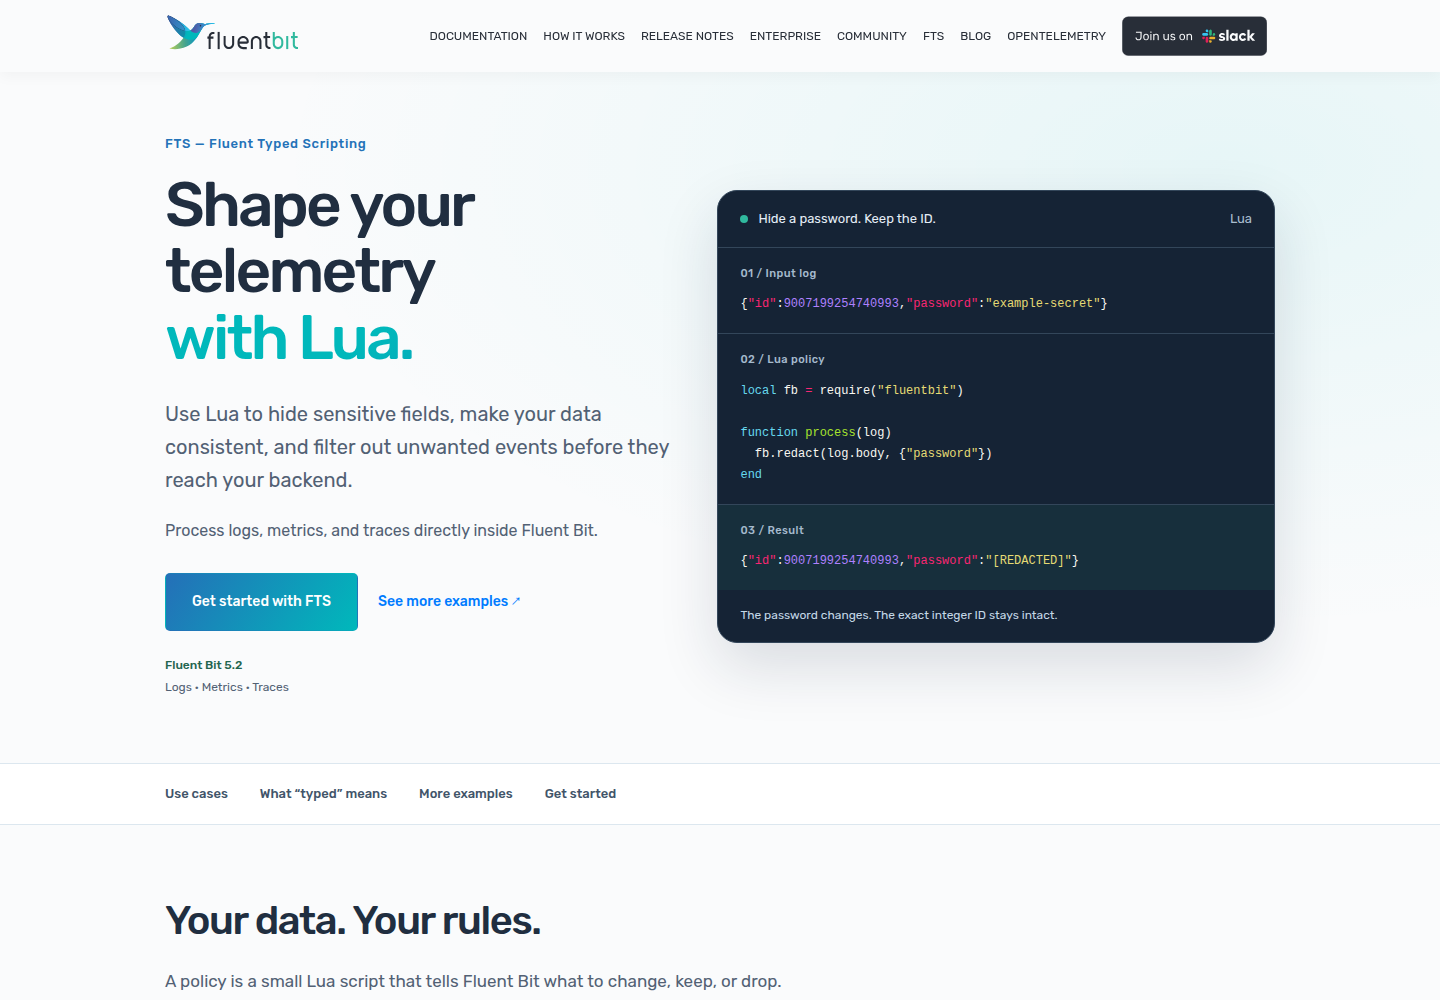
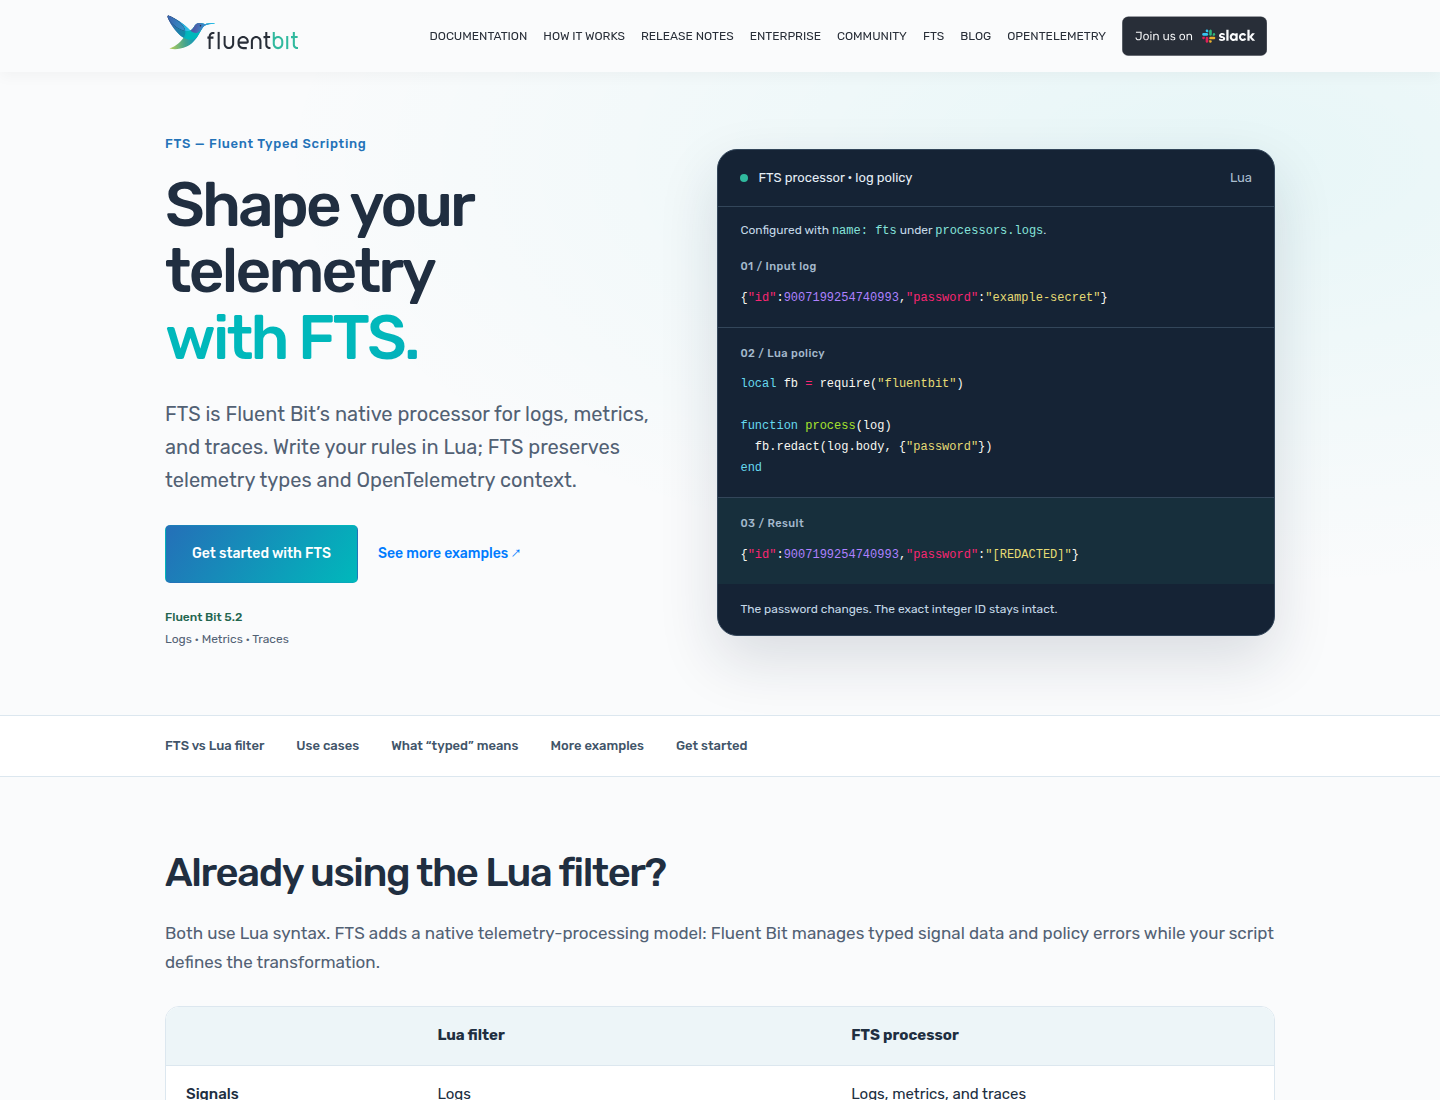
feat: promote 5.2 benchmarks and draft release notes

diff --git a/assets/scss/benchmarks.scss b/assets/scss/benchmarks.scss
@@ -67,3 +67,38 @@
   .benchmark-page details { padding: 16px; }
   .benchmark-page .benchmark-lead { font-size: 18px; }
 }
+
+.hero-benchmark-link { margin: 18px 0 24px; }
+.hero-benchmark-link a { color: #1c5689; font-size: 15px; font-weight: 500; text-underline-offset: 4px; }
+.home-benchmarks { order: 1; padding: 24px 0; }
+.home-benchmarks-card { padding: 40px; border-radius: 28px; background: #f3f8fb; border: 1px solid #dce7ef; }
+.home-benchmarks-heading { display: flex; align-items: center; justify-content: space-between; gap: 28px; margin-bottom: 28px; }
+.home-benchmarks-heading > div { min-width: 0; }
+.home-benchmarks-heading .btn { flex-shrink: 0; }
+.home-benchmarks-card h2 { font-size: 34px; line-height: 1.2; letter-spacing: -.025em; }
+.home-benchmarks-card p { font-size: 17px; line-height: 1.7; }
+.home-benchmarks-card .benchmark-eyebrow { color: #2372b8; font-size: 13px; font-weight: 500; }
+.home-benchmarks-results { display: grid; grid-template-columns: repeat(3, minmax(0, 1fr)); gap: 16px; }
+.home-benchmarks-result { display: flex; flex-direction: column; gap: 18px; padding: 28px; border-radius: 20px; background: linear-gradient(145deg, #1c5689, #123b65); color: #fff; text-decoration: none; transition: transform .2s ease; }
+.home-benchmarks-result:hover, .home-benchmarks-result:focus-visible { color: #fff; transform: translateY(-4px); text-decoration: none; outline: 3px solid #43c1df; outline-offset: 3px; }
+.home-benchmarks-result > span { font-size: 15px; line-height: 1.6; }
+.home-benchmarks-result .home-benchmarks-label { font-size: 12px; font-weight: 500; min-height: 38px; color: #d0ecff; }
+.home-benchmarks-result strong { font-size: clamp(40px, 4.7vw, 66px); line-height: 1.1; letter-spacing: -.04em; color: #fff; white-space: nowrap; }
+.home-benchmarks-result strong span { font-size: .7em; }
+.home-benchmarks-result .home-benchmarks-detail { margin-top: auto; font-size: 12px; color: #d0ecff; }
+.home-benchmarks-card .home-benchmarks-note { margin: 20px 0 0; color: #526174; font-size: 12px; }
+@media (max-width: 991px) {
+  .home-benchmarks-heading { align-items: flex-start; flex-direction: column; }
+  .home-benchmarks-result { padding: 22px; }
+}
+@media (max-width: 767px) {
+  .home-benchmarks-card { padding: 28px 24px; }
+  .home-benchmarks-card h2 { font-size: 28px; }
+  .home-benchmarks-results { grid-template-columns: minmax(0, 1fr); }
+  .home-benchmarks-result strong { font-size: 58px; }
+  .home-benchmarks-result .home-benchmarks-label { min-height: 0; }
+  .home-benchmarks-card .btn { padding: 18px 24px; white-space: normal; }
+}
+@media (prefers-reduced-motion: reduce) {
+  .home-benchmarks-result { transition: none; }
+}

diff --git a/layouts/partials/benchmarks/home.html b/layouts/partials/benchmarks/home.html
@@ -1,0 +1,36 @@
+{{ $summary := partial "benchmarks/summary.html" . }}
+<section class="home-benchmarks" aria-labelledby="home-benchmarks-title">
+  <div class="container">
+    <div class="home-benchmarks-card">
+      <div class="home-benchmarks-heading">
+        <div>
+          <p class="benchmark-eyebrow">Fluent Bit v5.2 / performance benchmarks</p>
+          <h2 id="home-benchmarks-title">More telemetry. Less overhead.</h2>
+          <p>Explore throughput, CPU, memory, and buffering measurements.</p>
+        </div>
+        <a class="btn btn-gradient" href="/benchmarks/5.2/">Explore 5.2 benchmarks</a>
+      </div>
+      <div class="home-benchmarks-results" aria-label="Measured benchmark highlights">
+        <a class="home-benchmarks-result" href="/benchmarks/5.2/#otlp">
+          <span class="home-benchmarks-label">Throughput vs. Fluent Bit 5.1</span>
+          <strong>{{ printf "%.1f" $summary.ratio }}<span>×</span></strong>
+          <span>JSON transformation throughput with memory buffering.</span>
+          <span class="home-benchmarks-detail">See OTLP results ↗</span>
+        </a>
+        <a class="home-benchmarks-result" href="/benchmarks/5.2/#otlp">
+          <span class="home-benchmarks-label">Throughput vs. OpenTelemetry Collector</span>
+          <strong>{{ printf "%.1f" $summary.collector_ratio }}<span>×</span></strong>
+          <span>The same JSON workload, compared with Collector 0.163.</span>
+          <span class="home-benchmarks-detail">See OTLP results ↗</span>
+        </a>
+        <a class="home-benchmarks-result" href="/benchmarks/5.2/#fts">
+          <span class="home-benchmarks-label">CPU savings with FTS</span>
+          <strong>{{ printf "%.0f" $summary.fts_low }}–{{ printf "%.0f" $summary.fts_high }}<span>%</span></strong>
+          <span>Less CPU than equivalent Lua log policies on Fluent Bit 5.1.0.</span>
+          <span class="home-benchmarks-detail">See FTS results ↗</span>
+        </a>
+      </div>
+      <p class="home-benchmarks-note">Measured workloads under the conditions in each comparison. Explore CPU and memory tradeoffs in the full report.</p>
+    </div>
+  </div>
+</section>

diff --git a/assets/scss/fts.scss b/assets/scss/fts.scss
@@ -157,3 +157,21 @@
   ul { margin-top: 20px; padding-left: 24px; }
   li { margin-bottom: 12px; }
 }
+
+.fts-demo p.fts-demo-context { margin: 0; padding: 14px 22px 0; color: #c4d8e7; font-size: 12px; line-height: 1.6; }
+.fts-demo-context code { color: #86e3db; }
+.fts-comparison { overflow-x: auto; margin: 28px 0; border: 1px solid #dce7ef; border-radius: 14px; }
+.fts-comparison table { width: 100%; border-collapse: collapse; background: #fff; font-size: 15px; line-height: 1.7; }
+.fts-comparison th, .fts-comparison td { padding: 16px 20px; border-bottom: 1px solid #dce7ef; vertical-align: top; min-width: 150px; }
+.fts-comparison thead { background: #edf5f8; }
+.fts-comparison td:first-child { font-weight: 500; }
+@media (max-width: 767px) {
+  .fts-comparison table, .fts-comparison tbody { display: block; }
+  .fts-comparison thead { position: absolute; width: 1px; height: 1px; overflow: hidden; clip-path: inset(50%); }
+  .fts-comparison tbody tr { display: grid; grid-template-columns: repeat(2, minmax(0, 1fr)); }
+  .fts-comparison td { min-width: 0; padding: 14px; font-size: 14px; }
+  .fts-comparison td:first-child { grid-column: 1 / -1; background: #edf5f8; }
+  .fts-comparison td:nth-child(2)::before, .fts-comparison td:nth-child(3)::before { display: block; font-weight: 500; color: #1c5689; margin-bottom: 8px; }
+  .fts-comparison td:nth-child(2)::before { content: "Lua filter"; }
+  .fts-comparison td:nth-child(3)::before { content: "FTS processor"; }
+}

diff --git a/layouts/fts/single.html b/layouts/fts/single.html
@@ -6,9 +6,8 @@
         <div class="fts-hero-grid">
           <div class="fts-hero-copy">
             <p class="fts-eyebrow">{{ site.Data.fts.name }}</p>
-            <h1 id="fts-title">Shape your telemetry <span class="text-gradient">with Lua.</span></h1>
+            <h1 id="fts-title">Shape your telemetry <span class="text-gradient">with FTS.</span></h1>
             <p class="fts-intro">{{ .Params.intro }}</p>
-            <p class="fts-hero-detail">Process logs, metrics, and traces directly inside Fluent Bit.</p>
             <div class="fts-actions">
               <a class="btn btn-gradient" href="{{ site.Data.fts.quickstart }}">Get started with FTS</a>
               <a class="fts-text-link" href="#signals">See more examples <span aria-hidden="true">↗</span></a>
@@ -21,6 +20,7 @@
     </section>
     <nav class="fts-page-nav" aria-label="On this page">
       <div class="container">
+        <a href="#lua-comparison">FTS vs Lua filter</a>
         <a href="#use-cases">Use cases</a>
         <a href="#typed-values">What “typed” means</a>
         <a href="#signals">More examples</a>

diff --git a/layouts/partials/hero.html b/layouts/partials/hero.html
@@ -9,6 +9,7 @@
                         <p data-aos="zoom-out" class="text-gradient text-left text-md-center hero-tag" data-aos-delay="100">{{$data.tag | safeHTML}}</p>
                         <h1 data-aos="zoom-in" data-aos-delay="100" class="text-left text-md-center mx-auto">{{$data.heading | markdownify }}</h1>
                         <p class="sub-heading text-left text-md-center" data-aos="zoom-in-up">{{$data.subHeading | markdownify}}</p>
+                        <p class="hero-benchmark-link"><a href="/benchmarks/5.2/">Explore the Fluent Bit 5.2 benchmarks ↗</a></p>
                         <div class="hero-action-row">
                             <div class="d-flex release-btn">
                                 {{ range $data.buttons }}

diff --git a/layouts/partials/fts-demo.html b/layouts/partials/fts-demo.html
@@ -1,5 +1,6 @@
 <div class="fts-demo" id="policy-in-action" aria-label="A log policy in action">
-  <div class="fts-demo-heading"><span class="fts-dot" aria-hidden="true"></span> Hide a password. Keep the ID. <span class="fts-demo-language">Lua</span></div>
+  <div class="fts-demo-heading"><span class="fts-dot" aria-hidden="true"></span> FTS processor · log policy <span class="fts-demo-language">Lua</span></div>
+  <p class="fts-demo-context">Configured with <code>name: fts</code> under <code>processors.logs</code>.</p>
   <div class="fts-demo-step">
     <p class="fts-code-label">01 / Input log</p>
     {{ highlight site.Data.fts.demo.input "json" "linenos=false,hl_lines=0,style=monokai" }}

diff --git a/layouts/index.html b/layouts/index.html
@@ -1,6 +1,7 @@
 {{ define "main" }}
     {{- partial "header.html" . -}}  
     {{- partial "hero.html" . -}}  
+    {{- partial "benchmarks/home.html" . -}}
     {{- partial "fts-home.html" . -}}
     {{- partial "howitswork.html" . -}}  
     {{- partial "brand.html" . -}}  

diff --git a/layouts/partials/performance.html b/layouts/partials/performance.html
@@ -30,7 +30,6 @@
                 </div>
             {{end}}
         </div>
-        {{ partial "benchmarks/promo.html" . }}
     </div>
 </section>
 

diff --git a/content/announcements/v5.2/v5.2.0.md b/content/announcements/v5.2/v5.2.0.md
@@ -1,0 +1,121 @@
+---
+title: 'v5.2.0'
+description: 'Typed telemetry processing, faster OpenTelemetry pipelines, and more resilient delivery.'
+url: "/announcements/v5.2.0/"
+ver: v5.2.0
+herobg: "/images/hero@2x.jpg"
+draft: true
+latestVer: false
+source_revision: "364a2d700a05893618527fff8d4d1f9e5e2e35cd"
+comparison_baseline: "v5.1.5"
+---
+
+###### KNOWLEDGE BASE
+
+## Release Notes v5.2.0
+
+[Fluent Bit](https://fluentbit.io) is a Fast and Lightweight Telemetry Agent for Linux, BSD, macOS and Windows. We are proud to announce the availability of **Fluent Bit v5.2.0**.
+
+Fluent Bit 5.2 brings typed, programmable processing to logs, metrics, and traces with **Fluent Typed Scripting (FTS)**. It accelerates OpenTelemetry log pipelines, improves buffering efficiency, adds journald-to-OpenTelemetry mapping, and makes delivery more responsive to destination backpressure.
+
+### What's new ?
+
+<br>
+
+#### FTS: a native telemetry processor, scripted with Lua
+
+[Fluent Typed Scripting](/fts/) is a new native Fluent Bit processor for logs, metrics, and traces. Lua expresses your policy; FTS manages typed telemetry values, OpenTelemetry context, and how changes are committed or rolled back.
+
+Unlike the existing Lua log filter, FTS processes all three signals and exposes typed values directly. Large integer IDs, nulls, and binary data retain their meaning when a policy changes another field. Resource and instrumentation context are available as named properties.
+
+Use FTS to redact known fields, normalize telemetry, or reduce unwanted events and metric dimensions. Existing Lua filter scripts remain supported; migrating to FTS requires adapting their API.
+
+#### Faster pipelines, with measurements you can inspect
+
+In the published memory-buffered OTLP/HTTP JSON transformation benchmark, Fluent Bit 5.2 reaches **1.50 million records/s**: **7.2× the throughput of 5.1** and **2.0× Collector 0.163** for the same log-attribute update. These comparisons use native content modifier processing in Fluent Bit.
+
+The separate FTS scripting benchmarks show **18–45% less CPU than equivalent Lua log policies on 5.1.0**. Compatible content modifier chains also benefit from performing multiple edits in one pass.
+
+The [5.2 benchmark report](/benchmarks/5.2/) includes CPU, memory, latency, buffering conditions, and tradeoffs. These figures describe specific workloads, not a guaranteed production rate.
+
+#### System logs ready for OpenTelemetry
+
+The new `journald_otel` processor maps journal records into OpenTelemetry logs, including severity, host and process information. This makes system logs easier to query alongside application telemetry without building a custom field-mapping script.
+
+#### More considerate delivery under pressure
+
+HTTP, OpenTelemetry, Elasticsearch, and OpenSearch outputs recognize destination throttling and supported retry-delay hints. The engine can wait for a destination to recover without spending retry attempts simply because a cooldown is active, helping pipelines respond more predictably to busy services.
+
+### Core
+
+<br>
+
+- **Processing:** accelerate eligible OTLP log pipelines and compatible content modifier chains, while preserving grouped telemetry and exact record accounting.
+- **Buffering:** improve filesystem allocation for low-volume streams and process large log buffers in bounded windows. The sparse-stream benchmark reduces allocated disk by 92.2%; busy-stream results and tradeoffs are included in the benchmark report.
+- **Delivery:** coordinate output cooldowns, queued work, and shutdown more reliably, and keep outputs making progress during heavy threaded ingestion.
+- **Configuration:** prefer paths relative to the configuration file for includes, parsers, scripts, and auxiliary files; add YAML configuration generation from command-line options.
+- **Reliability:** improve HTTP resource controls, regular-expression handling, TLS configuration consistency, and Windows and macOS lifecycle behavior.
+- **Validation:** expand integration coverage for typed processing, backpressure, configuration portability, protocol handling, and cloud delivery.
+
+### Libraries
+
+<br>
+
+- Update **CFL to v1.1.0**, **CMetrics to v2.3.1**, and **CTraces to v0.8.0**.
+- Update **ChunkIO to v1.5.5** and **yyjson to v0.13.0**.
+- Refresh LuaJIT, Onigmo, and SQLite for compatibility, portability, and more predictable resource use.
+
+### Plugins
+
+<br>
+
+#### Inputs
+
+- **OpenTelemetry:** accelerate JSON and Protobuf log processing across eligible native processor chains and improve connection distribution across HTTP workers.
+- **Node Exporter Metrics:** add an optional immediate scrape at startup and improve textfile metric collection.
+- **Tail, Forward, Syslog, and Unix Socket:** improve recovery, shutdown, grouped-log handling, and local socket lifecycle behavior.
+
+#### Processors & Filters
+
+- **FTS:** introduce typed policies for all three telemetry signals, OpenTelemetry-aware helpers, JSON decoding, and configurable error handling.
+- **Journald OpenTelemetry:** add native journal-to-OpenTelemetry field mapping.
+- **Content Modifier and SQL:** improve native processing efficiency and preserve telemetry grouping through transformations.
+- **WebAssembly:** add the v2 value-length interface, with C, Rust, and TinyGo filter examples.
+
+#### Outputs
+
+- **HTTP, OpenTelemetry, Elasticsearch, and OpenSearch:** honor supported throttling responses and retry hints.
+- **VIVO:** expand live telemetry inspection with versioned OTLP JSON streams, bounded retention, and gzip responses. Retained inspection data is temporary.
+- **Kafka and File:** improve serialization validation and output correctness for Avro, Protobuf, CSV, and LTSV.
+- **Prometheus Exporter:** group repeated metric families consistently.
+
+#### Experimental browser SDK
+
+An embeddable JavaScript SDK runs the Fluent Bit engine in a browser through WebAssembly. It provides configuration, JSON log ingestion, and lifecycle controls for browser applications. This is a separate, experimental build profile with its own deployment requirements and support limits.
+
+### Upgrading
+
+<br>
+
+- Review relative file paths: configuration-directory paths now take precedence for supported configuration assets.
+- VIVO listens on `127.0.0.1` by default. Set an explicit listener address if remote access is required, and protect remote access appropriately.
+- Existing Lua filter policies continue to work. Choose FTS for typed, multi-signal processing and adapt scripts to its callback and value model when migrating.
+
+{{< contributor-list >}}
+
+#### Contributors
+
+Thank you to everyone who contributes through code, reports, testing, and documentation. Contributors in the release comparison include:
+
+- [Eduardo Silva](https://github.com/edsiper)
+- [Hiroshi Hatake](https://github.com/cosmo0920)
+- [Dean Chen](https://github.com/locker95)
+- [Stefano Tondo](https://github.com/stondo)
+- [Arunesh Dwivedi](https://github.com/AruneshDwivedi)
+- [Jonathan Gonzalez V.](https://github.com/sxd)
+
+{{< /contributor-list >}}
+
+#### Join us
+
+Share your experience in [GitHub Discussions](https://github.com/fluent/fluent-bit/discussions) or join the Fluent Bit community on [CNCF Slack](https://communityinviter.com/apps/cloud-native/cncf), channel `#fluent-bit`.

diff --git a/content/fts.md b/content/fts.md
@@ -1,17 +1,37 @@
 ---
 title: "FTS — Fluent Typed Scripting"
 description: "Write policies for logs, metrics, and traces directly in Fluent Bit, with typed access to telemetry values and OpenTelemetry context."
-intro: "Use Lua to hide sensitive fields, make your data consistent, and filter out unwanted events before they reach your backend."
+intro: "FTS is Fluent Bit’s native processor for logs, metrics, and traces. Write your rules in Lua; FTS preserves telemetry types and OpenTelemetry context."
 type: fts
 headerTheme: light
 image: "/images/blog/1701353456-general-fluent-bit-preview-card.png"
 ---
 
+<section class="fts-section" aria-labelledby="lua-comparison">
+
+## Already using the Lua filter? {#lua-comparison}
+
+Both use Lua syntax. FTS adds a native telemetry-processing model: Fluent Bit manages typed signal data and policy errors while your script defines the transformation.
+
+<div class="fts-comparison" role="region" aria-label="Lua filter and FTS comparison" tabindex="0">
+
+| | Lua filter | FTS processor |
+| --- | --- | --- |
+| Signals | Logs | Logs, metrics, and traces |
+| Values in the script | Converted Lua tables and numbers | Typed telemetry values, including exact integers, nulls, and binary data |
+| OpenTelemetry context | Group and record metadata tables through the extended callback | Named resource, scope, and attribute properties |
+| If a running policy fails, by default | The original log chunk passes through | Changes to the affected item roll back; that item is dropped |
+
+</div>
+
+The Lua filter has settings for integer fields, nulls, arrays, and timestamp precision. FTS exposes a typed value model directly. Keep working Lua filter scripts when they meet your needs; choose FTS for typed, multi-signal policies and explicit error handling.
+</section>
+
 <section class="fts-section" aria-labelledby="use-cases">
 
 ## Your data. Your rules. {#use-cases}
 
-A policy is a small Lua script that tells Fluent Bit what to change, keep, or drop.
+An FTS policy tells the processor what to change, keep, or drop. Lua is the interface for expressing those rules.
 
 <div class="fts-use-cases">
 <div>

diff --git a/content/enterprise.md b/content/enterprise.md
@@ -23,26 +23,12 @@ enterprise:
     buttonUrl: "https://chronosphere.io/contact/?utm_source=fluent-bit&utm_medium=referral&utm_content=enterprise-tile"
     buttonText: "Learn more"
     tabOpen: "_blank"
-  - title: ITOCHU Techno-Solutions America, Inc.
-    description: "Enterprise services from a global IT solution provider.  Services include: consulting, technology enablement, and a global service desk."
-    logo: /images/fluentd.svg
-    buttonUrl: "https://fluentd.ctc-america.com/"
-    buttonText: "Learn more"
-    tabOpen: "_blank"
   - title: ClearCode
     description: >
       ClearCode is a core maintainer of Fluentd since 2014, based in Japan.  
       クリアコードは、日本国内において航空会社、官公庁、通信事業者をはじめとした大規模ユーザーに対する支援を行ってきました。 ご相談にはFluentd/Fluent Bitのコアメンテナが対応いたしますので、まずはお気軽にお問い合わせください。
     logo: /images/ClearCode.svg
     buttonUrl: "https://www.clear-code.com/services/fluentd.html"
-    buttonText: "Learn more"
-    tabOpen: "_blank"
-  - title: Fluent.Do
-    description: >
-      Fluent.Do provide various consulting and professional services for Fluent projects and their users.
-      They are based in the EU and are comprised of Fluent Bit maintainers.
-    logo: /images/fluentdo-logo.jpg
-    buttonUrl: "https://fluent.do/"
     buttonText: "Learn more"
     tabOpen: "_blank"
 ---

diff --git a/content/announcements/v5.2/_index.md b/content/announcements/v5.2/_index.md
@@ -1,0 +1,12 @@
+---
+title: 'Fluent Bit v5.2 Series'
+description: 'Release notes for Fluent Bit 5.2: typed telemetry processing, performance, and delivery improvements.'
+url: "/announcements/v5.2/"
+herobg: "/images/hero@2x.jpg"
+draft: true
+latestVer: false
+releaseNotes:
+  heading: "Release Notes v5.2.0"
+  version: "v5.2.0"
+  text: "Fluent Bit 5.2 introduces Fluent Typed Scripting, faster OpenTelemetry pipelines, and more resilient telemetry delivery."
+---
